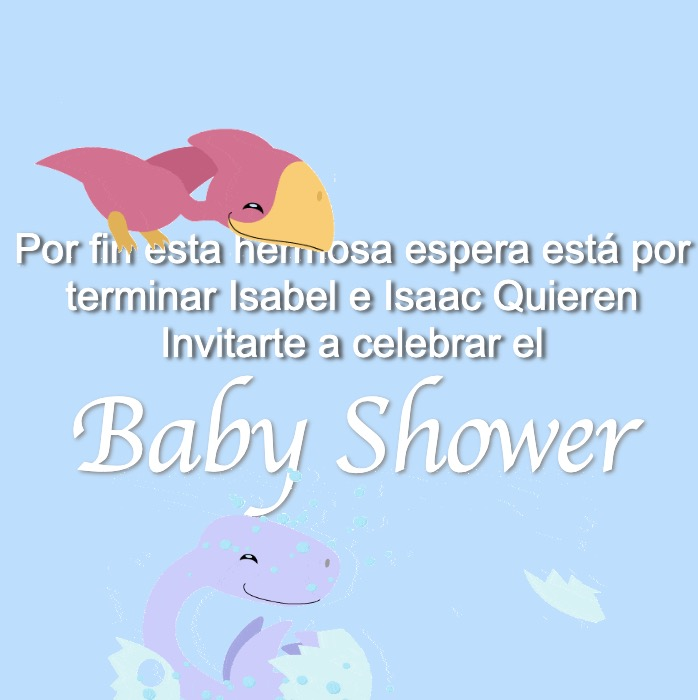
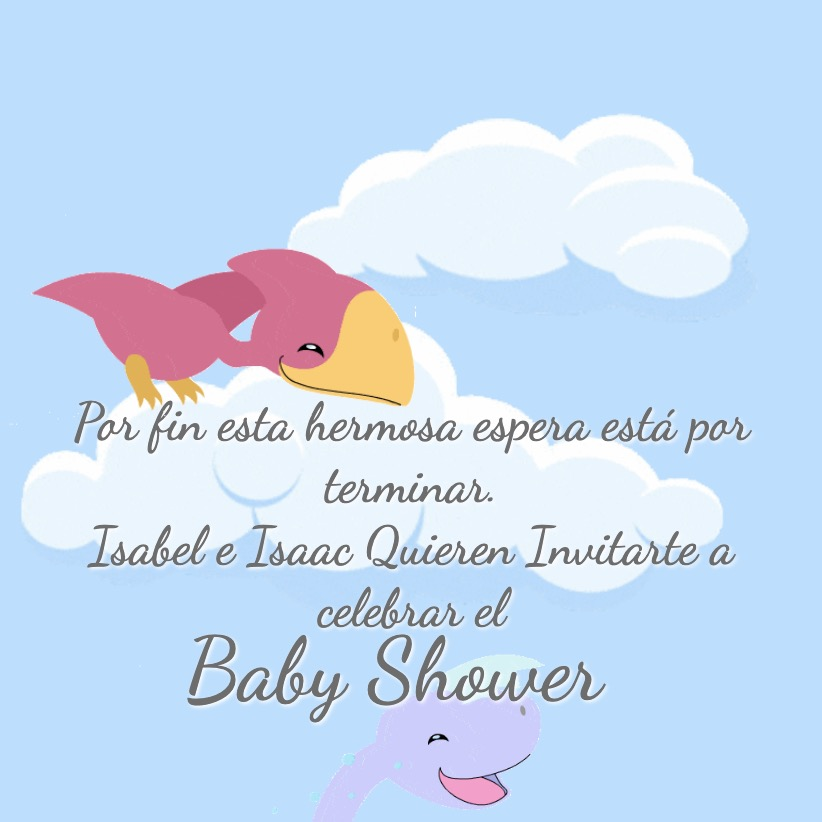
Add files via upload

diff --git a/index.html b/index.html
@@ -10,12 +10,15 @@
     <meta property="og:description" content="Invitación al Baby Shower">
     <meta name="description" content="Invitación al Baby Shower">
     <link rel="stylesheet" href="https://cdnjs.cloudflare.com/ajax/libs/font-awesome/4.7.0/css/font-awesome.min.css">
+    <link rel="preconnect" href="https://fonts.googleapis.com">
+    <link rel="preconnect" href="https://fonts.gstatic.com" crossorigin>
+    <link href="https://fonts.googleapis.com/css2?family=Dancing+Script:wght@400..700&display=swap" rel="stylesheet">
     <style>
 
         body {
             margin: 0px;
             padding: 0px;
-            font-family: 'Arial';
+            font-family: "Dancing Script", serif;
             background-color: #b5deff;
         }
         a {
@@ -47,6 +50,9 @@
         .section-1 {
             top: 0px;
             background: #b5deff;
+            background-image: url('clouds.gif');
+            background-size: contain;
+            background-repeat: repeat-x;
         }
         .section-2 {
             top: 90vh;
@@ -61,32 +67,35 @@
 
 
         .text-tittle {
-            font-size: 8vh;
-            color: white;
+            font-size: 5vh;
+            color: #6d6d6d;
             position: absolute;
-            top: calc(27vh);
+            top: calc(35vh);
             width: 100%;
-            text-shadow: 1px 1px 2px #868686;
-            font-family: cursive;
+            text-shadow: 1px 1px 2px #ffffff;
+            font-family: "Dancing Script", serif;
             text-align: center;
+            z-index: 1;
         }
 
         .text-sub-tittle {
             font-size: 3vh;
-            color: white;
+            color: #6d6d6d;
             position: absolute;
             top: calc(23vh);
             width: 100%;
-            text-shadow: 2px 1px 2px #494949;
-            font-family: arial;
+            text-shadow: 1px 1px 2px #ffffff;
+            font-family: "Dancing Script", serif;;
             text-align: center;
+            padding: 1vh;
         }
          .welcome-gif {
             position: relative;
-            top: calc(35vh);
+            top: calc(40vh);
             left: 0px;
             width: 100%;
             height: auto;
+            z-index: 0;
         }
         #dino01 {
             position: absolute;
@@ -115,7 +124,7 @@
             top: calc(-3vh);
             width: 100%;
             text-shadow: 1px 1px 2px #868686;
-            font-family: cursive;
+            font-family: "Dancing Script", serif;;
             text-align: center;
         }
         .text-when {
@@ -125,7 +134,7 @@
             top: calc(20vh);
             width: 100%;
             text-shadow: 2px 2px 2px #868686;
-            font-family: arial;
+            font-family: "Dancing Script", serif;
             text-align: center;
         }
           #dino04 {
@@ -169,7 +178,7 @@
             top: calc(-3vh);
             width: 100%;
             text-shadow: 1px 1px 2px #868686;
-            font-family: cursive;
+            font-family: "Dancing Script", serif;;
             text-align: center;
         }
         .text-where {
@@ -179,7 +188,7 @@
             top: calc(20vh);
             width: 100%;
             text-shadow: 1px 1px 2px #868686;
-            font-family: arial;
+            font-family: "Dancing Script", serif;
             text-align: center;
         }
         .text-where-button {
@@ -199,7 +208,7 @@
             cursor: pointer;
             position: relative;
             overflow: hidden;
-            font-family: Arial;
+            font-family: "Dancing Script", serif;
             background: linear-gradient(180deg, #fa685a 10%, #d34639 100%);
             display: inline-flex;
             align-items: center;
@@ -242,7 +251,7 @@
 
 
     <div class="section-1 section">
-        <p class="text-sub-tittle" >Por fin esta hermosa espera está por terminar Isabel e Isaac Quieren Invitarte a celebrar el </p>
+        <p class="text-sub-tittle" >Por fin esta hermosa espera está por terminar.<br>Isabel e Isaac Quieren Invitarte a celebrar el </p>
         <p class="text-tittle">Baby Shower</p>
 
         <img src="hatch-01.gif" class="welcome-gif">
@@ -252,7 +261,7 @@
     </div>
     <div class="section-2 section">
         <p class="text-when-tittle">¿Cuando?</p>
-        <p class="text-when">El sabado 15 de marzo del 2025 a las 16:00 hrs</p>
+        <p class="text-when">El sábado 15 de marzo del 2025 a las 16:00 hrs</p>
         <img src="dino-04.gif" id="dino04">
         <img src="dino-05.gif" id="dino05">
         <img src="dino-03.gif" id="dino06">
